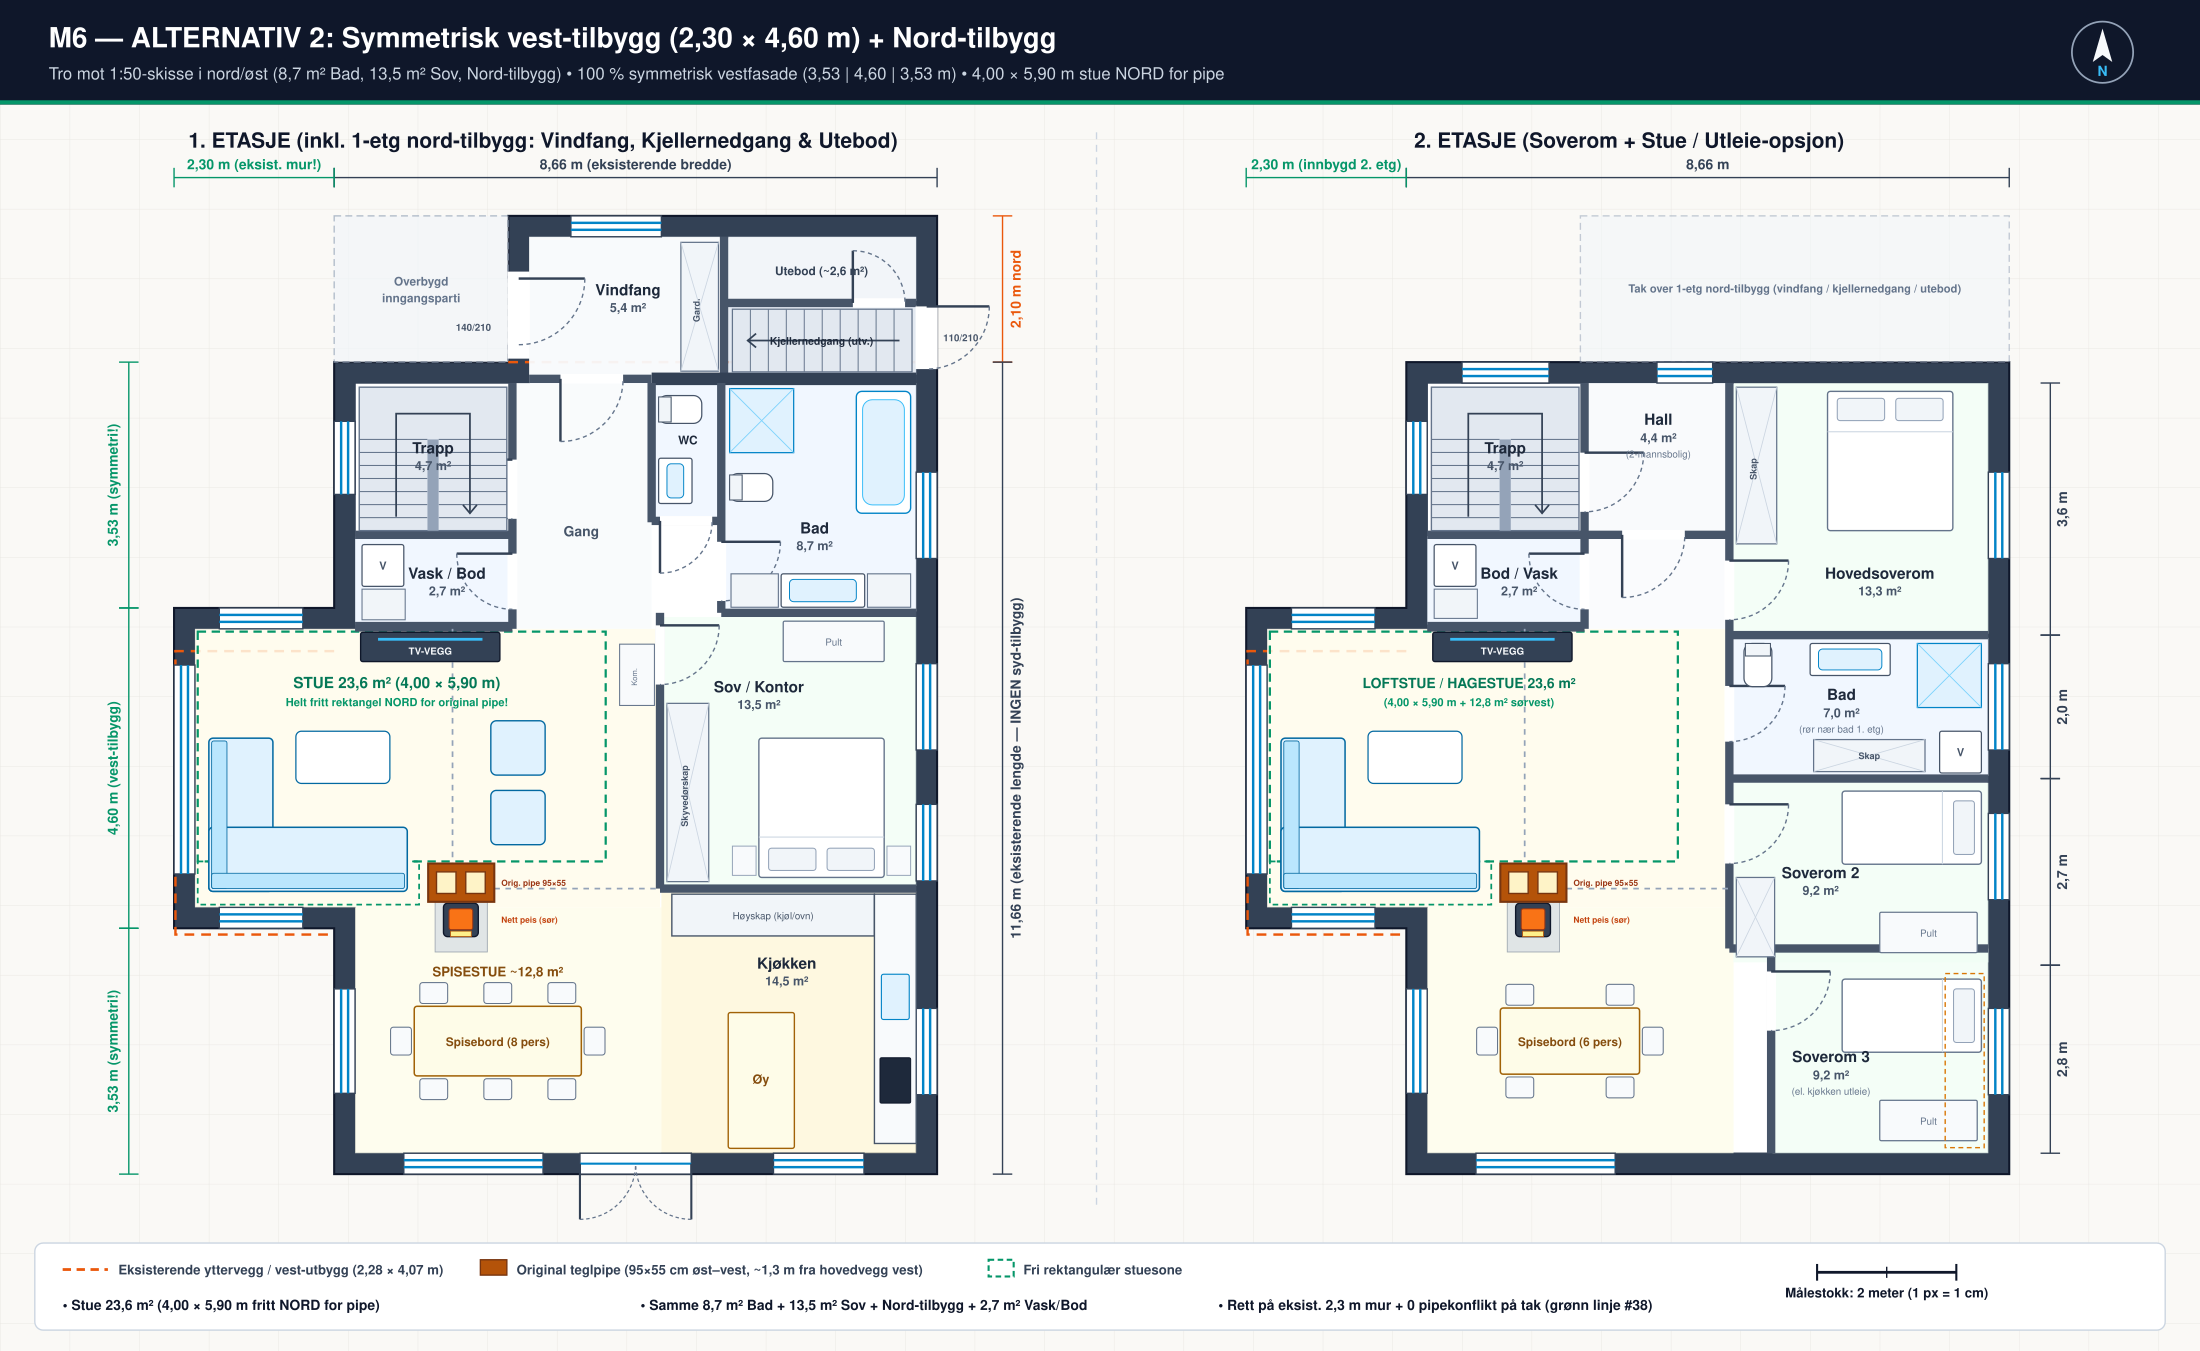
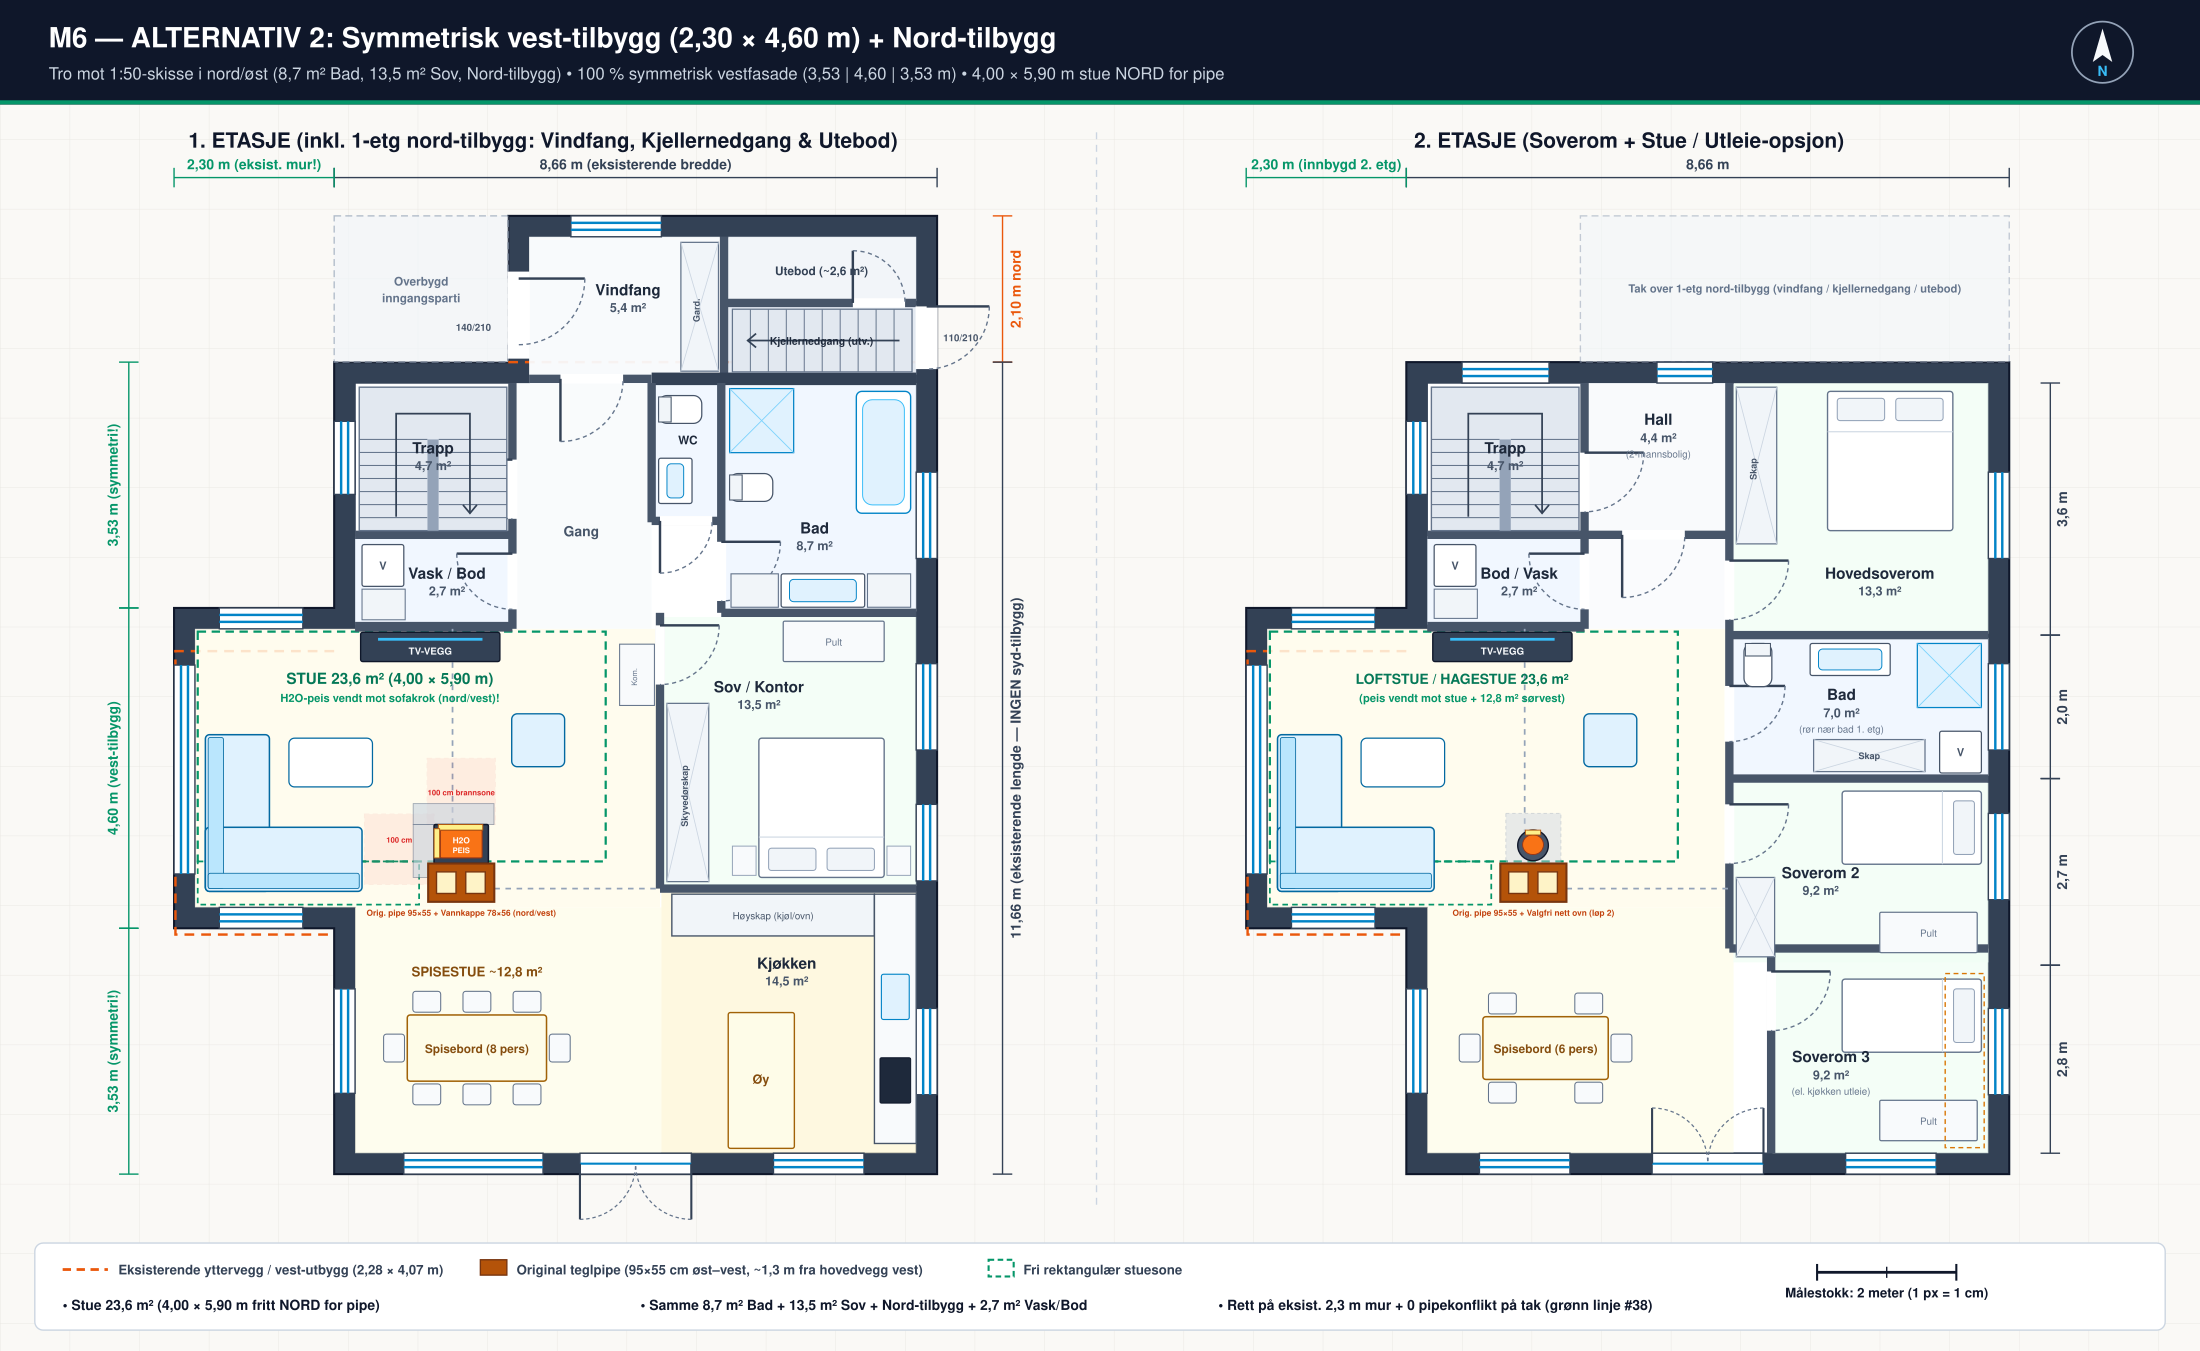
Alt 2: orient compact 78x56 cm H2O fireplace north/west toward sofa lounge

diff --git a/scripts/generate_vest_alternativer.py b/scripts/generate_vest_alternativer.py
@@ -231,8 +231,38 @@ class PlanBuilder:
             self.rect(x - 48, y + 15, 7, 22, fill="#fef08a", stroke="#b45309", sw=1.2)
             self.text(x - 28, y + 83, "Valgfri nett ovn (løp 2)", size=11, weight="700", fill="#c2410c")
             self.text(x + w / 2, y - 12, "Orig. pipe 95×55", size=12, weight="700", fill="#9a3412")
+        elif mode == "north_insert":
+            # Alt 2 - 1. etg: Nett 78 x 56 cm H2O vannkappepeis on NORTH face of chimney (facing directly into sofakrok!)
+            # x = 143..221 (narrower than 95 cm chimney!), y = 664..720 (56 cm north of chimney)
+            fp_w, fp_d = 78, 56
+            fx = x + (w - fp_w) / 2  # 143.5
+            fy = y - fp_d            # 664
+            # 100 cm fire safety zone west + north of 2-sided glass (west: x=43..143, north: y=564..664)
+            self.rect(fx - 100, fy - 15, 100, fp_d + 45, fill="#ef4444", opacity=0.08, stroke="#dc2626", sw=1.5, dash="7,5")
+            self.rect(fx - 10, fy - 95, fp_w + 20, 95, fill="#ef4444", opacity=0.08, stroke="#dc2626", sw=1.5, dash="7,5")
+            self.text(fx - 50, fy + 26, "100 cm", size=11, weight="700", fill="#dc2626")
+            self.text(fx + fp_w / 2, fy - 42, "100 cm brannsone", size=11, weight="700", fill="#dc2626")
+            # 30 cm non-combustible hearth plate (glass/skifer) north + west of corner glass
+            self.rect(fx - 30, fy - 30, fp_w + 38, 30, fill="#cbd5e1", opacity=0.65, stroke="#64748b", sw=1.2)
+            self.rect(fx - 30, fy, 30, fp_d + 20, fill="#cbd5e1", opacity=0.65, stroke="#64748b", sw=1.2)
+            # Nett 78 x 56 cm H2O fireplace surround + firebox
+            self.rect(fx, fy, fp_w, fp_d, fill="#334155", stroke="#0f172a", sw=2.2, rx=2)
+            self.rect(fx + 9, fy + 8, fp_w - 18, fp_d - 16, fill="#f97316", stroke="#9a3412", sw=1.5, rx=2)
+            # 2-sided corner glass: NORTH + WEST (facing directly into sofa lounge!)
+            self.rect(fx + 6, fy, fp_w - 14, 8, fill="#fef08a", stroke="#b45309", sw=1.3)
+            self.rect(fx, fy + 6, 8, fp_d - 14, fill="#fef08a", stroke="#b45309", sw=1.3)
+            self.text(fx + fp_w / 2, fy + 27, "H2O", size=12, weight="800", fill="#ffffff")
+            self.text(fx + fp_w / 2, fy + 41, "PEIS", size=11, weight="800", fill="#ffffff")
+            self.text(x + w / 2, y + h + 20, "Orig. pipe 95×55 + Vannkappe 78×56 (nord/vest)", size=12, weight="700", fill="#c2410c")
+        elif mode == "north_stove":
+            # Alt 2 - 2. etg: Compact optional Ø44 cm stove on NORTH face of chimney (facing loftstue sofa!)
+            self.rect(x + 8, y - 72, 79, 72, fill="#cbd5e1", opacity=0.45, stroke="#94a3b8", sw=1.3, dash="5,4")
+            self.rect(x + 25, y - 48, 44, 44, fill="#475569", stroke="#0f172a", sw=2, rx=22)
+            self.rect(x + 32, y - 41, 30, 28, fill="#f97316", stroke="#9a3412", sw=1.3, rx=14)
+            self.rect(x + 36, y - 48, 22, 7, fill="#fef08a", stroke="#b45309", sw=1.2)
+            self.text(x + w / 2, y + h + 20, "Orig. pipe 95×55 + Valgfri nett ovn (løp 2)", size=12, weight="700", fill="#c2410c")
         else:
-            # South-mounted stove (for Alt 2 where sofa sits north of chimney)
+            # South-mounted stove fallback
             self.rect(x + 10, y + h, 75, 72, fill="#cbd5e1", opacity=0.6, stroke="#64748b", sw=1.3)
             self.rect(x + 22, y + h + 2, 50, 48, fill="#334155", stroke="#0f172a", sw=2, rx=6)
             self.rect(x + 30, y + h + 10, 34, 30, fill="#f97316", stroke="#9a3412", sw=1.4, rx=3)
@@ -746,25 +776,24 @@ def build_alt2_floor1(pb: PlanBuilder):
     pb.window_v(15, 900, 1050, 30)
     pb.window_v(15, 85, 190, 30)
 
-    # Fixtures & furniture
+    # Fixtures & furniture — H2O fireplace on NORTH/WEST of chimney facing directly into sofa lounge!
     pb.stairs_u(36, 36, 212, 206)
     pb.washer_dryer(40, 262, count=1, vertical=False)  # Vaskesøyle (V+T)
     pb.rect(40, 326, 62, 44, fill="#f1f5f9", stroke="#64748b", sw=1.5)  # Benk/utslagsvask
-    pb.dining_table(235, 975, 240, 100, seats=8)
+    pb.dining_table(205, 985, 200, 95, seats=8)
     pb.tv_bench(38, 388, 200, 42)
-    pb.sofa_l(-180, 540, w_horiz=285, h_vert=220, depth=92, corner="bl")
-    pb.coffee_table(-55, 530, 135, 75)
-    pb.armchair(225, 515, 78, 78)
-    pb.armchair(225, 615, 78, 78)
-    pb.chimney_and_fireplace(135, 720, 95, 55, mode="south_stove")
+    pb.sofa_l(-185, 535, w_horiz=225, h_vert=225, depth=92, corner="bl")  # 103 cm klar til vestglass på H2O-peis!
+    pb.coffee_table(-65, 540, 120, 70)
+    pb.armchair(255, 505, 76, 76)
+    pb.chimney_and_fireplace(135, 720, 95, 55, mode="north_insert")
 
     # Labels
     pb.room_label(142, 135, "Trapp", "4,7 m²")
     pb.room_label(162, 315, "Vask / Bod", "2,7 m²")
     pb.text(355, 250, "Gang", size=20, weight="700", fill="#475569")
-    pb.text(90, 468, "STUE 23,6 m² (4,00 × 5,90 m)", size=22, weight="800", fill="#047857")
-    pb.text(90, 494, "Helt fritt rektangel NORD for original pipe!", size=16, weight="700", fill="#059669")
-    pb.text(235, 882, "SPISESTUE ~12,8 m²", size=19, weight="700", fill="#854d0e")
+    pb.text(80, 462, "STUE 23,6 m² (4,00 × 5,90 m)", size=22, weight="800", fill="#047857")
+    pb.text(80, 488, "H2O-peis vendt mot sofakrok (nord/vest)!", size=16, weight="700", fill="#059669")
+    pb.text(205, 882, "SPISESTUE ~12,8 m²", size=19, weight="700", fill="#854d0e")
 
     # Symmetry & dimensions
     pb.dim_h(0, 866, -265, "8,66 m (eksisterende bredde)", bold=True)
@@ -805,7 +834,9 @@ def build_alt2_floor2(pb: PlanBuilder):
     pb.window_v(-215, 435, 735, 30)
     pb.window_h(-165, -45, 798, 30)
     pb.window_h(-165, -45, 368, 30)
-    pb.window_h(100, 300, 1151, 30)
+    pb.window_h(105, 235, 1151, 30)
+    pb.double_terrace_door_h(433, 1151, 160, wall_t=30, swing_down=False)  # Eksist. sentrert verandadør 2. etg sør!
+    pb.window_h(631, 761, 1151, 30)
     pb.window_v(15, 900, 1050, 30)
     pb.window_v(15, 85, 190, 30)
 
@@ -813,16 +844,17 @@ def build_alt2_floor2(pb: PlanBuilder):
     pb.washer_dryer(40, 262, count=1, vertical=False)
     pb.rect(40, 326, 62, 42, fill="#f1f5f9", stroke="#64748b", sw=1.5)
     pb.tv_bench(38, 388, 200, 42)
-    pb.sofa_l(-180, 540, w_horiz=285, h_vert=220, depth=92, corner="bl")
-    pb.coffee_table(-55, 530, 135, 75)
-    pb.dining_table(235, 975, 200, 95, seats=6)
-    pb.chimney_and_fireplace(135, 720, 95, 55, mode="south_stove")
+    pb.sofa_l(-185, 535, w_horiz=225, h_vert=225, depth=92, corner="bl")
+    pb.coffee_table(-65, 540, 120, 70)
+    pb.armchair(255, 505, 76, 76)
+    pb.dining_table(200, 985, 180, 90, seats=6)
+    pb.chimney_and_fireplace(135, 720, 95, 55, mode="north_stove")
 
     pb.room_label(142, 135, "Trapp", "4,7 m²")
     pb.room_label(162, 315, "Bod / Vask", "2,7 m²")
     pb.room_label(362, 100, "Hall", "4,4 m²", "(2-mannsbolig)")
-    pb.text(90, 468, "LOFTSTUE / HAGESTUE 23,6 m²", size=20, weight="800", fill="#047857")
-    pb.text(90, 494, "(4,00 × 5,90 m + 12,8 m² sørvest)", size=16, weight="700", fill="#059669")
+    pb.text(80, 462, "LOFTSTUE / HAGESTUE 23,6 m²", size=20, weight="800", fill="#047857")
+    pb.text(80, 488, "(peis vendt mot stue + 12,8 m² sørvest)", size=16, weight="700", fill="#059669")
 
     pb.dim_h(0, 866, -265, "8,66 m", bold=True)
     pb.dim_h(-230, 0, -265, "2,30 m (innbygd 2. etg)", color="#059669", bold=True)
